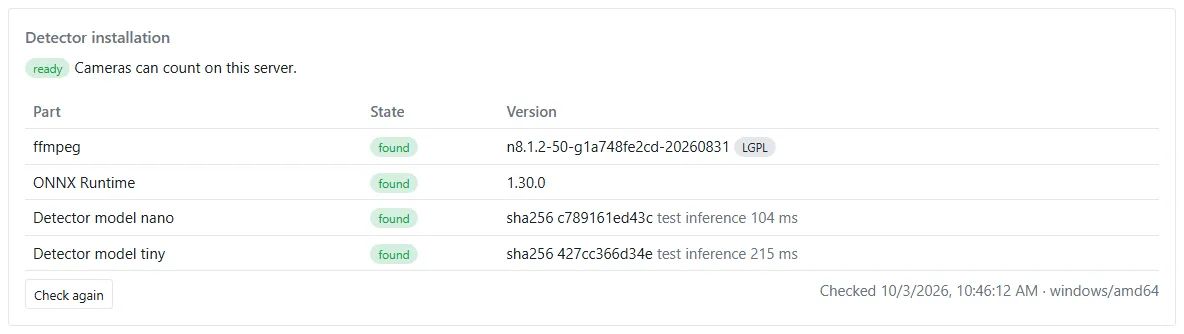
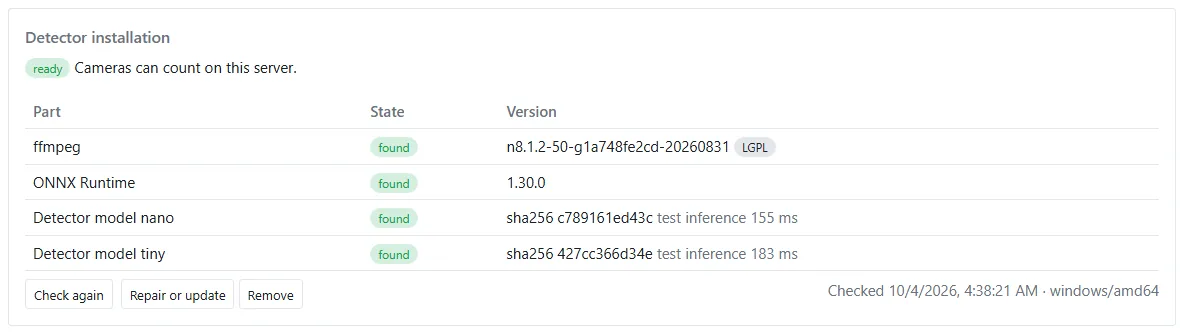
Menu names and the detector installation button (0.75)
Overview for the start dashboard, Reports (report templates, stored and scheduled reports, report
signatures), Automation (flows, alarm rules, automation rules), My account at the bottom of the menu,
Notification channels and Browser notifications; every page naming these paths updated. Install the
detector with the button on Object counting -> Cameras and System -> Server. New and retaken pictures.

diff --git a/docs/telemetry/getting-started/first-sign-in.md b/docs/telemetry/getting-started/first-sign-in.md
@@ -37,22 +37,31 @@ section without anything for you is left out.
 
 | Section | In the menu | Needs |
 |---|---|---|
-| — | **Dashboard** (the start dashboard of your organization), **Dashboards** (all of them) | signed in, `data.read` |
-| Monitoring | **Home**, **Energy**, **Object counting**, **Cameras**, **Displays**, **Incidents** | `data.read`; Cameras `video.view`; Displays `display.control` |
-| Devices and automation | **Devices**, **Assets** (sites, assets, alarm rules, automation), **Flows**, **Firmware** | `data.read`; Firmware `fota.read` |
+| — | **Overview** (the start dashboard of your organization), **Dashboards** (all of them) | signed in, `data.read` |
+| Monitoring | **Home**, **Energy**, **Object counting**, **Cameras**, **Displays**, **Incidents**, **Reports** (report templates, stored reports, scheduled reports, report signatures) | `data.read`; Cameras `video.view`; Displays `display.control`; Reports `content.write`, `audit.read` or `report.sign` |
+| Devices and automation | **Devices**, **Assets** (sites, assets), **Automation** (flows, alarm rules, automation rules), **Firmware** | `data.read`; automation rules `config.write`; Firmware `fota.read` |
 | Administration | **Users**, **Audit**, **Settings**, **System** | `user.admin`; `audit.read` or `report.sign`; `content.write`; `system.admin` |
-| My account | **Profile**, **Password and MFA**, **API tokens**, **Notifications**, **AI assistants**, **API documentation** | signed in |
+| Bottom of the menu | **My account**: **Profile**, **Password and MFA**, **API tokens**, **Browser notifications**, **AI assistants**, **API documentation** | signed in |
 
-![The menu with the sections Monitoring, Devices and automation and Administration, and Object counting open with Overview, Areas and entrances, Cameras, Sensors and Scheduled reports](img/menu.webp)
+![The menu with Overview and Dashboards at the top, the sections Monitoring with Reports, Devices and automation with Automation, and Administration, Object counting open with Overview, Areas and entrances, Cameras, Sensors and Scheduled reports, and My account at the bottom next to Sign out](img/menu.webp)
 
 - A menu item with an arrow opens its pages underneath, e.g. *Object counting → Overview, Areas and entrances,
   Cameras, Sensors* and its *Scheduled reports*, or *Cameras → Live view, Video walls, Camera management, Evidence,
   Settings*. Every tab a page has is one of these entries, so *Cameras → Evidence* in this documentation means: open
   *Cameras* in the menu, then *Evidence*.
-- A few pages appear in two places because they belong to both: *Object counting* under *Cameras* and *Scheduled
-  reports* under *Object counting* lead to the same pages as under *Object counting* and *Settings*.
-- **My account** holds your password and two-factor settings, API tokens, notifications on this device, connected AI
-  assistants and the language. The interface is available in 19 languages.
+- A few pages appear in two places because they belong to both: *Object counting* under *Cameras*, *Scheduled
+  reports* under *Object counting* and *Report signatures* under *Audit* lead to the same pages as under *Object
+  counting* and *Reports*.
+- **Reports** holds every report page in one place: *Report templates*, *Stored reports*, *Scheduled reports* and
+  *Report signatures*. **Automation** holds *Flows*, *Alarm rules* and *Automation rules*.
+- **My account** is at the bottom of the menu, next to *Sign out* (on a phone at the end of the menu). It holds your
+  password and two-factor settings, API tokens, browser notifications on this device, connected AI assistants and
+  the language. The interface is available in 19 languages.
+- Two kinds of notifications have two names: *Settings → Notification channels* is where an administrator sets up
+  e-mail, SMS, voice, webhook and Web Push channels and escalation; *My account → Browser notifications* is where you
+  switch on Web Push in your own browser.
+- Links and bookmarks from earlier versions keep working: for example `/settings/templates` opens *Reports → Report
+  templates* and `/assets/rules` opens *Automation → Alarm rules*.
 - Before anyone signs in, the address `/` shows the sign-in page with a short overview of the system, or your own
   front page once you publish one (see [Front page](../administration/front-page.md)).
 
@@ -81,7 +90,7 @@ opens its first page, and the page shows its other pages as tabs at the top:
 On a phone the menu opens as a drawer from the button at the top left. Only the item of the page you are on shows its pages;
 tap another item with an arrow to see its pages (a second tap hides them):
 
-![The menu opened as a drawer on a phone: Dashboard and Dashboards, then the section Monitoring with Home, Energy, Object counting, Cameras, Displays and Incidents, and the section Devices and automation](img/phone-menu.webp)
+![The menu opened as a drawer on a phone: Overview and Dashboards, then the section Monitoring with Home, Energy, Object counting, Cameras, Displays, Incidents and Reports, and the section Devices and automation](img/phone-menu.webp)
 
 ## Set up e-mail
 

diff --git a/docs/telemetry/automation/automation-rules.md b/docs/telemetry/automation/automation-rules.md
@@ -7,10 +7,10 @@ tags: [automation, rules, conditions, actions]
 
 Automation rules are simple **condition → action** rules over one or more datastreams: *when all (or any) of the
 conditions hold — optionally for a hold time — fire the actions; when the condition ends, run the exit actions*. They
-are under *Assets → Automation*, with a run log of what each rule did. For anything larger use [flows](flows.md); a
+are under *Automation → Automation rules*, with a run log of what each rule did. For anything larger use [flows](flows.md); a
 rule converts into an equivalent flow.
 
-![Assets → Automation: rules with their state, condition, actions and last run, and the run log below](img/automation-rules.webp)
+![Automation → Automation rules: rules with their state, condition, actions and last run, and the run log below](img/automation-rules.webp)
 
 ## Permissions
 
@@ -93,20 +93,20 @@ Conditions and expressions use these names, for example `t_in - t_out`.
 | Action | Fields | Notes |
 |---|---|---|
 | Notify a channel | Channel; Subject (up to 200 characters); Text (up to 4 000 characters) | placeholders `{rule}`, `{event}`, `{inputs}` and `{<input name>}` |
-| Call a webhook | URL (`http://` or `https://`, up to 1 024 characters); Secret (HMAC-SHA256, optional, up to 256 characters) | only hosts of the organization's allow-list (*Flows → Settings*) |
+| Call a webhook | URL (`http://` or `https://`, up to 1 024 characters); Secret (HMAC-SHA256, optional, up to 256 characters) | only hosts of the organization's allow-list (*Automation → Flows → Settings*) |
 | Send a device command | Device; Key (writable register / node: lower-case letters, digits and `_`, starting with a letter, up to 32 characters); Value or expression (`20`, `true`, `t_out + 2`) | commanding: needs `device.command` |
 | Raise an alarm | Severity (warning, action, critical; default warning); Escalation policy (default: none, global e-mail) | not allowed in the exit list |
 | Write a derived datastream | Derived datastream; Expression (up to 512 characters) | the datastream must not be an input of the same rule |
 
 Details of each action:
 
-- **Notify a channel** sends through a channel of *Settings → Notifications*. Without a subject it sends
+- **Notify a channel** sends through a channel of *Settings → Notification channels*. Without a subject it sends
   `[ctrl32] rule {rule}: {event}`, without a text `Rule {rule} — {event}` and the inputs. `{event}` is `enter` or
   `exit`; `{inputs}` lists every input as `name = value` (or *(no data)*); `{t_in}` is the value of the input
   `t_in`. Every delivery is in the delivery log with the event `rule`.
 - **Call a webhook** sends the same JSON message as a webhook channel (event `rule`, the rule's identifier, name,
   version, transition and input values), signed in `X-Ctrl32-Signature` when you give a secret. The host must be on the organization's allow-list
-  (*Flows → Settings*), like the flows' *HTTP request* node — checked when the rule is saved and again when the
+  (*Automation → Flows → Settings*), like the flows' *HTTP request* node — checked when the rule is saved and again when the
   webhook is sent; otherwise saving answers *webhook: host "…" is not on the organization's allow-list*. Add the
   hosts of existing rules to the list before you change them.
 - **Send a device command** sends the method `write` with `{"key": <key>, "value": <value>}`. The command is valid
@@ -192,5 +192,5 @@ Below the rules, the run log lists the last 50 transitions:
 
 ## Converting a rule into a flow
 
-*Flows → New flow → Start with: Converted automation rule* builds an equivalent draft flow from a rule — see
+*Automation → Flows → New flow → Start with: Converted automation rule* builds an equivalent draft flow from a rule — see
 [Flows](flows.md). Stop the rule once the flow runs, so the actions do not happen twice.

diff --git a/docs/telemetry/object-counting/cameras.md b/docs/telemetry/object-counting/cameras.md
@@ -88,8 +88,41 @@ and a longer section make it better.
 ## Install the detector
 
 The server runs the detector in a separate worker process per camera: an unmodified **ffmpeg** decodes the picture,
-the **YOLOX** model finds people and vehicles through **ONNX Runtime** on the CPU. The installers set it up when you
-ask for it; it is off by default.
+the **YOLOX** model finds people and vehicles through **ONNX Runtime** on the CPU. It is off by default: a server
+administrator installs it with one button, or the installers set it up when you ask for it.
+
+### With the button
+
+On *Object counting → Cameras* and on *System → Server*, the **Detector installation** card has the button **Install
+the detector** for server administrators (`system.admin`):
+
+1. Click **Install the detector**.
+2. Give a reason (it goes to the audit trail), your password and, with two-factor sign-in, the code from your
+   authenticator app, and click **Install**.
+3. The card shows the progress: *Downloading 2 of 5* with the part and its megabytes, then unpacking and checking
+   each part.
+4. When it is done, the check runs again and the card shows *ready*. Nothing needs a restart.
+
+![The dialog Install the detector: what the server agent downloads and checks, the versions, the reason for the audit trail, your password and the authenticator code, and the buttons Install and Close](img/detector-install-dialog.webp)
+
+![The Detector installation card while the detector is installed: a progress bar and Downloading 2 of 5 with the ffmpeg build and its megabytes](img/detector-install-progress.webp)
+
+- The server agent downloads exactly the parts the installers do (the table below), over HTTPS from their official
+  releases, and keeps a file only when its SHA-256 matches the value built into this version of the product. An
+  ffmpeg that is not an LGPL build is refused.
+- Everything is prepared next to the installed parts and put in place only after every part has been downloaded and
+  checked. A failure — no network, a wrong checksum, a full disk — is shown with its reason and changes nothing
+  installed.
+- Pressed again, the button downloads only what is missing or damaged. **Repair or update** with *Download every
+  part again (repair)* replaces every part; after an update of the product to newer pinned parts it installs those.
+- **Remove** takes the parts and their paths in `config.toml` away; counting with sensors keeps working.
+- Counting with cameras pauses while the parts are being replaced.
+- The request and its result are recorded in the [audit trail](../administration/audit.md) (`analytics.install`,
+  `analytics.remove`). An API token or an AI assistant cannot install or remove the detector.
+- The button needs the server agent, which the installers set up as the service `ctrl32-telemetry-agent`. Linux on
+  x86-64 and ARM64 and Windows on x64 are supported.
+
+### With the installer
 
 ```bash
 curl -fsSL https://portal.telemetry.digital/install.sh | sudo bash -s -- --analytics

diff --git a/docs/telemetry/administration/settings-reference.md b/docs/telemetry/administration/settings-reference.md
@@ -6,7 +6,9 @@ tags: [administration, settings, branding, reports, notifications, reference]
 ---
 
 The **Settings** menu holds the settings of your organization. It appears for users with `content.write`; some pages
-need a further permission, named in each section. Every setting belongs to one organization only.
+need a further permission, named in each section. Every setting belongs to one organization only. The report pages
+(*Report templates*, *Stored reports*, *Scheduled reports*) are in the menu under **Reports** and are described here
+too.
 
 Every save on these pages asks for a **reason** (up to 200 characters). The reason is stored with the old and new
 values in the [audit trail](audit.md); a save without a reason is refused.
@@ -14,15 +16,16 @@ values in the [audit trail](audit.md); a save without a reason is refused.
 | Page | Address | Needed to change |
 |---|---|---|
 | Branding and theme | `/settings/branding` | `content.write` |
-| Report templates | `/settings/templates` | `content.write` |
-| Stored reports | `/settings/reports` | `data.export` (read only) |
+| Report templates (menu *Reports*) | `/reports/templates` | `content.write` |
+| Stored reports (menu *Reports*) | `/reports` | `data.export` (read only) |
+| Scheduled reports (menu *Reports*) | `/reports/scheduled` | `config.write` |
 | Connectors | `/settings/connectors` | `config.write` |
 | Languages | `/settings/languages` | `content.write` |
 | Translations | `/settings/translations` | `content.write` |
 | Apps | `/settings/apps` | `content.write` |
 | VPN | `/vpn` | `vpn.manage` (shown to organization administrators without `system.admin`) |
 | Organization export | `/settings/export` | `user.admin` |
-| Notifications | `/settings/notifications` | `config.write` |
+| Notification channels | `/settings/notifications` | `config.write` |
 | Approvals | `/settings/approvals` | the permission of each change |
 | Security policy | `/settings/policy` | `user.admin` (`config.write` to read) |
 | AI assistants | `/settings/ai` | `user.admin` |
@@ -252,7 +255,7 @@ The ZIP contains:
   audit trail, access log;
 - a manifest with the SHA-256 of every file and the head of the audit chain.
 
-## Notifications
+## Notification channels
 
 Where alarms are delivered and how they escalate.
 
@@ -271,7 +274,7 @@ A stored secret is kept when the field is left blank. The kind cannot be changed
 
 The channel list shows *Name*, *Kind*, *Target* and *State* (enabled, disabled, revoked) with **Test** (sends a test
 notification), **Edit** and **Revoke** (asks for a reason). E-mail channels need `[smtp]` in
-[config.toml](config-reference.md); Web Push reaches only users who enabled it under *My account → Notifications*.
+[config.toml](config-reference.md); Web Push reaches only users who enabled it under *My account → Browser notifications*.
 Alarm rules without an escalation policy use the server's global e-mail recipients (`smtp.to`).
 
 ### Escalation policies

diff --git a/docs/telemetry/energy/pdf-and-exports.md b/docs/telemetry/energy/pdf-and-exports.md
@@ -17,23 +17,23 @@ Reports and PDF exports use **Liberation Sans**, a typeface with the same letter
 server so a PDF looks the same on every installation; Excel files use Arial. A template may choose another typeface
 in its page settings.
 
-Under *Settings → Report templates* a template is put together from blocks in the designer, or edited as Typst
+Under *Reports → Report templates* a template is put together from blocks in the designer, or edited as Typst
 source; *Preview PDF* shows the result before it is saved as a new version.
 
-![Settings → Report templates: kind and locale, the Blocks (designer) and Source (Typst) modes, paper, font and size, the blocks Title, Summary facts, Data table and End marker, and the buttons Preview PDF, Save as new version and Revert to built-in](img/report-templates.webp)
+![Reports → Report templates: kind and locale, the Blocks (designer) and Source (Typst) modes, paper, font and size, the blocks Title, Summary facts, Data table and End marker, and the buttons Preview PDF, Save as new version and Revert to built-in](img/report-templates.webp)
 
-Generated reports are stored under **Settings → Stored reports** together with their hashes, so a stored report can
+Generated reports are stored under **Reports → Stored reports** together with their hashes, so a stored report can
 be shown to be unchanged. The column *Signatures* shows the meanings the report was signed with.
 
-![Settings → Stored reports: generated PDF reports with time, kind, author, template, size, file hash, signatures and a download link](img/stored-reports.webp)
+![Reports → Stored reports: generated PDF reports with time, kind, author, template, size, file hash, signatures and a download link](img/stored-reports.webp)
 
 ## Electronic signatures
 
-A stored PDF report can be **signed electronically** under **Audit → Report signatures** by people with the
+A stored PDF report can be **signed electronically** under **Reports → Report signatures** (also under *Audit*) by people with the
 permission `report.sign` (the built-in *qa* role has it). The page lists the stored reports with their signatures;
 reading it needs `data.export`.
 
-![Audit → Report signatures: stored reports with their file hash and signatures, and the buttons Download, Signatures and Sign](img/report-signatures.webp)
+![Reports → Report signatures: stored reports with their file hash and signatures, and the buttons Download, Signatures and Sign](img/report-signatures.webp)
 
 **Sign** opens the signing dialog:
 

diff --git a/docs/telemetry/automation/notifications.md b/docs/telemetry/automation/notifications.md
@@ -7,10 +7,10 @@ tags: [alarms, notifications, escalation, web-push, webhooks]
 
 **Notification channels** say *how* people are told — e-mail, SMS, a voice call, a webhook, Web Push. **Escalation
 policies** say *who is told when*: a list of steps in minutes after the alarm. Both live under
-*Settings → Notifications* together with the **delivery log**. Every change needs `config.write` and a reason and is
+*Settings → Notification channels* together with the **delivery log**. Every change needs `config.write` and a reason and is
 audited.
 
-![Settings → Notifications: channels with kind, target and state; an escalation policy with steps 0 min → e-mail and 15 min → webhook; and the delivery log with the state of every delivery](img/notifications.webp)
+![Settings → Notification channels: channels with kind, target and state; an escalation policy with steps 0 min → e-mail and 15 min → webhook; and the delivery log with the state of every delivery](img/notifications.webp)
 
 Channels are used by escalation policies, by [automation rules](automation-rules.md) (*Notify a channel*) and by
 [flows](flow-nodes-actions.md) (*Notify*).
@@ -139,12 +139,12 @@ The bottom of the page lists the last 50 deliveries (the API returns up to 500):
 
 ## Web Push in your browser
 
-Each user switches Web Push on for their own browser under *My account → Notifications*: **Enable in this browser**,
+Each user switches Web Push on for their own browser under *My account → Browser notifications*: **Enable in this browser**,
 **Send a test notification**, **Disable in this browser**, and a list of registered browsers with the last
 notification and their state (*active*, *delivery failed*, *removed*). Web Push needs HTTPS and a browser that
 supports it; on phones install the app from the browser menu first.
 
-![My account → Notifications with the button Enable in this browser and the list of registered browsers](img/web-push.webp)
+![My account → Browser notifications with the button Enable in this browser and the list of registered browsers](img/web-push.webp)
 
 A Web Push channel reaches only users who enabled it in at least one browser. Administrators (users with
 `alarm.ack` or `system.admin`) also get Web Push for incidents the system opens.

diff --git a/docs/telemetry/automation/alarms.md b/docs/telemetry/automation/alarms.md
@@ -12,12 +12,12 @@ written to the append-only alarm log.
 
 ## Alarm rules
 
-*Assets → Alarm rules* lists the current version of every alarm rule: asset, datastream, type, warning and action
+*Automation → Alarm rules* lists the current version of every alarm rule: asset, datastream, type, warning and action
 limit, delay, hysteresis, version (hover for the reason) and since when it applies. Click a row to open the
 datastream on the page of its asset, where you can save a new version or disable the rule; the asset page also has
 an *Alarm rules* tab with the rules of that asset only (see [The asset and site pages](../devices/asset-page.md)).
 
-![Assets → Alarm rules: rules per asset and datastream with type, warning and action limits, delay, hysteresis, version and since when](img/alarm-rules.webp)
+![Automation → Alarm rules: rules per asset and datastream with type, warning and action limits, delay, hysteresis, version and since when](img/alarm-rules.webp)
 
 Reading rules needs `data.read`; **New rule**, new versions and disabling need `config.write`.
 
@@ -33,7 +33,7 @@ Reading rules needs `data.read`; **New rule**, new versions and disabling need `
 | Action limit | number | — | any number | the stronger limit; for communication loss both limits are seconds |
 | Delay (s) | number | 0 | 0–604800 | how long the condition must last before the alarm is raised |
 | Hysteresis | number | 0 | 0 or more | how far the value must come back before the alarm clears |
-| Escalation policy | choice | (none: global e-mail) | a policy of *Settings → Notifications* | who is told and when |
+| Escalation policy | choice | (none: global e-mail) | a policy of *Settings → Notification channels* | who is told and when |
 | Reason (audit trail) | text | — | up to 200 characters | required |
 
 A rule is **versioned**: saving a rule of the same type on the same datastream closes the current version and

diff --git a/docs/telemetry/automation/index.md b/docs/telemetry/automation/index.md
@@ -14,9 +14,9 @@ automation rules, controls smart-home devices with scenes and keeps an incident 
 
 | You want to | Use | Where |
 |---|---|---|
-| Be told when a value crosses a limit | an alarm rule | *Assets → Alarm rules* |
-| Decide who is told, how, and what happens when nobody reacts | notification channels and escalation policies | *Settings → Notifications* |
-| React to a simple condition over a few datastreams | an automation rule | *Assets → Automation* |
+| Be told when a value crosses a limit | an alarm rule | *Automation → Alarm rules* |
+| Decide who is told, how, and what happens when nobody reacts | notification channels and escalation policies | *Settings → Notification channels* |
+| React to a simple condition over a few datastreams | an automation rule | *Automation → Automation rules* |
 | Build anything larger: timers, routing, memory, several triggers, HTTP, MQTT, smart home | a flow | *Flows* |
 | Set several smart-home devices at once | a scene | *Home* |
 | Record what went wrong, its cause and the corrective action | an incident | *Incidents* |
@@ -35,7 +35,7 @@ automation rules, controls smart-home devices with scenes and keeps an incident 
 8. [Alarms](alarms.md) — alarm rules, alarm states, acknowledgement and the alarm log.
 9. [Notifications and escalation](notifications.md) — channels, escalation policies, the delivery log and Web Push.
 10. [Incidents](incidents.md) — the incident log with impact, cause and CAPA.
-11. [Automation rules](automation-rules.md) — condition → action rules under *Assets → Automation*.
+11. [Automation rules](automation-rules.md) — condition → action rules under *Automation → Automation rules*.
 12. [Home page and scenes](home-and-scenes.md) — control discovered devices and run scenes.
 
 ## Rules of the house

diff --git a/docs/telemetry/administration/my-account.md b/docs/telemetry/administration/my-account.md
@@ -5,7 +5,8 @@ sidebar_position: 10
 tags: [administration, account, password, mfa, api-tokens, notifications]
 ---
 
-**My account** is in the menu of every signed-in user. It needs no permission, except *API tokens*, which needs
+**My account** is at the bottom of the menu of every signed-in user, next to *Sign out* (on a phone at the end of the
+menu); a click opens its pages underneath. It needs no permission, except *API tokens*, which needs
 `token.manage`.
 
 | Page | Address |
@@ -13,7 +14,7 @@ tags: [administration, account, password, mfa, api-tokens, notifications]
 | Profile | `/account` |
 | Password and MFA | `/account/security` |
 | API tokens | `/account/tokens` |
-| Notifications | `/account/push` |
+| Browser notifications | `/account/push` |
 | AI assistants | `/account/ai` |
 
 In an [app](pwa-apps.md) that is locked to its sections, *My account* keeps only *Password and MFA* and *Sign out*.
@@ -73,10 +74,10 @@ The token is shown **once**, right after *Create token*; copy it then. The list 
 A token never has more than you: a request is allowed only for permissions that are both in its scopes and in your
 current permissions, so removing a role from you also narrows your tokens.
 
-## Notifications
+## Browser notifications
 
 Alarm and rule notifications can reach your browser as system notifications, even when the app is closed. Which
-users are notified is chosen by an administrator with a Web Push channel (*Settings → Notifications*).
+users are notified is chosen by an administrator with a Web Push channel (*Settings → Notification channels*).
 
 | Control | Meaning |
 |---|---|

diff --git a/docs/telemetry/automation/flows.md b/docs/telemetry/automation/flows.md
@@ -12,7 +12,7 @@ user code**: every node comes from a closed library, and calculations use a smal
 
 ## Quick start
 
-1. **Flows → New flow**, name it, pick *Example: value above a limit for a while → notify* and give a reason.
+1. **Automation → Flows → New flow**, name it, pick *Example: value above a limit for a while → notify* and give a reason.
 
     ![The New flow dialog with name, Start with and a reason](img/new-flow.webp)
 
@@ -188,7 +188,7 @@ On save, the server also fills in the default of every setting you left empty.
 
 ## Allowed hosts
 
-The *HTTP request* node can only call hosts on the organization's allow-list. **Flows → Settings** (permission
+The *HTTP request* node can only call hosts on the organization's allow-list. **Automation → Flows → Settings** (permission
 `config.write`) edits it:
 
 - one host name per line, for example `api.example.com`;
@@ -237,7 +237,7 @@ draft never stops a running flow, not even across a restart. The draft runs only
 
 ## Converting automation rules
 
-[Automation rules](automation-rules.md) convert into an equivalent draft flow: *Flows → New flow → Start with:
+[Automation rules](automation-rules.md) convert into an equivalent draft flow: *Automation → Flows → New flow → Start with:
 Converted automation rule*. The converted flow has:
 
 - one *Datastream value* trigger per input, each followed by a *Change* node that sets the topic to the input name,

diff --git a/docs/telemetry/administration/system-reference.md b/docs/telemetry/administration/system-reference.md
@@ -86,7 +86,7 @@ devices reconnect within seconds; requires the agent).
 | Database | server, PostgreSQL version, size, number of organizations, users, devices, sites, stored reports, pending commands |
 | Storage and files | report and firmware directories (with the firmware size limit), Typst, log file and level, gap check interval, links to `/metrics` and `/.well-known/security.txt` |
 | Components | versions of the parts installed on the host (with the agent) |
-| Object counting | the self-check of the detector for object counting on cameras: ffmpeg (version, LGPL or GPL build), ONNX Runtime (version) and the nano and tiny models (SHA-256, test inference), with **Check again**; see [Install the detector](../object-counting/cameras.md#check-the-installation) |
+| Object counting | the self-check of the detector for object counting on cameras: ffmpeg (version, LGPL or GPL build), ONNX Runtime (version) and the nano and tiny models (SHA-256, test inference), with **Check again**, and for server administrators **Install the detector** (or **Repair or update** and **Remove**) with the progress of the server agent; see [Install the detector](../object-counting/cameras.md#install-the-detector) |
 
 **Services and containers** lists the systemd units and Docker containers with their state and whether they start at
 boot. The agent, WireGuard and the reverse proxy have a **Restart** button (each asks for a reason).

diff --git a/docs/telemetry/administration/permissions-reference.md b/docs/telemetry/administration/permissions-reference.md
@@ -95,7 +95,7 @@ Two flags of the built-in roles also matter:
 | `user.admin` | the *Users* menu: accounts, roles and permissions, account requests, camera access of users, resetting passwords and MFA, unlocking, signing a user out everywhere; changing the security policy; switching AI assistants on or off and disconnecting any user's assistant; the organization export |
 | `audit.read` | *Audit → Audit trail* and *Reviews*: reading the audit trail and its reviews; exporting the audit trail and the access log |
 | `audit.review` | recording a signed review of the audit trail — a period or one entry (*Audit → Audit trail*); see [Audit trail](audit.md#reviews) |
-| `report.sign` | signing stored PDF reports electronically (*Audit → Report signatures*); see [PDF reports and exports](../energy/pdf-and-exports.md#electronic-signatures) |
+| `report.sign` | signing stored PDF reports electronically (*Reports → Report signatures*); see [PDF reports and exports](../energy/pdf-and-exports.md#electronic-signatures) |
 | `system.admin` | server administration: the *System* menu — organizations of the whole server, Server, Domain and TLS, VPN of the whole server, backups, redundant database, updates, licence, front page; saving the video settings; granting and removing `server_admin` and changing the accounts of server administrators |
 
 !!! warning "system.admin is server-wide"
